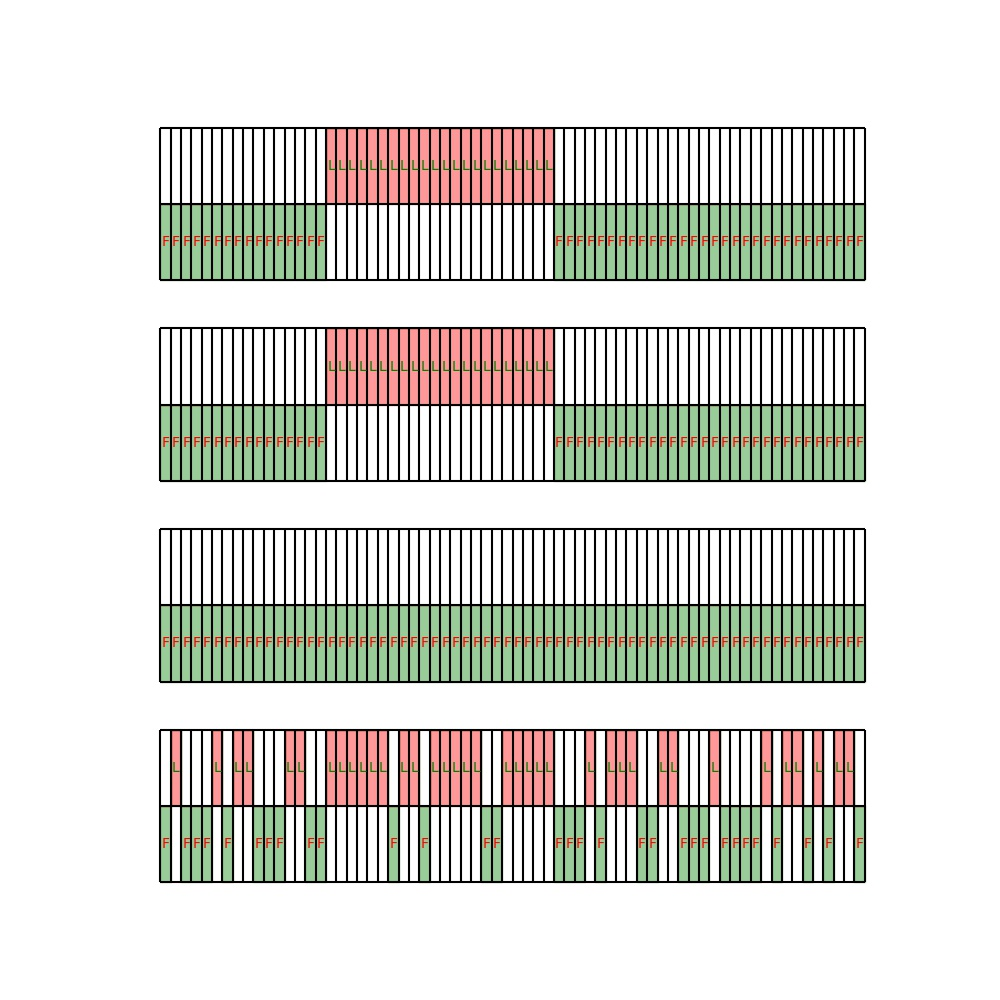
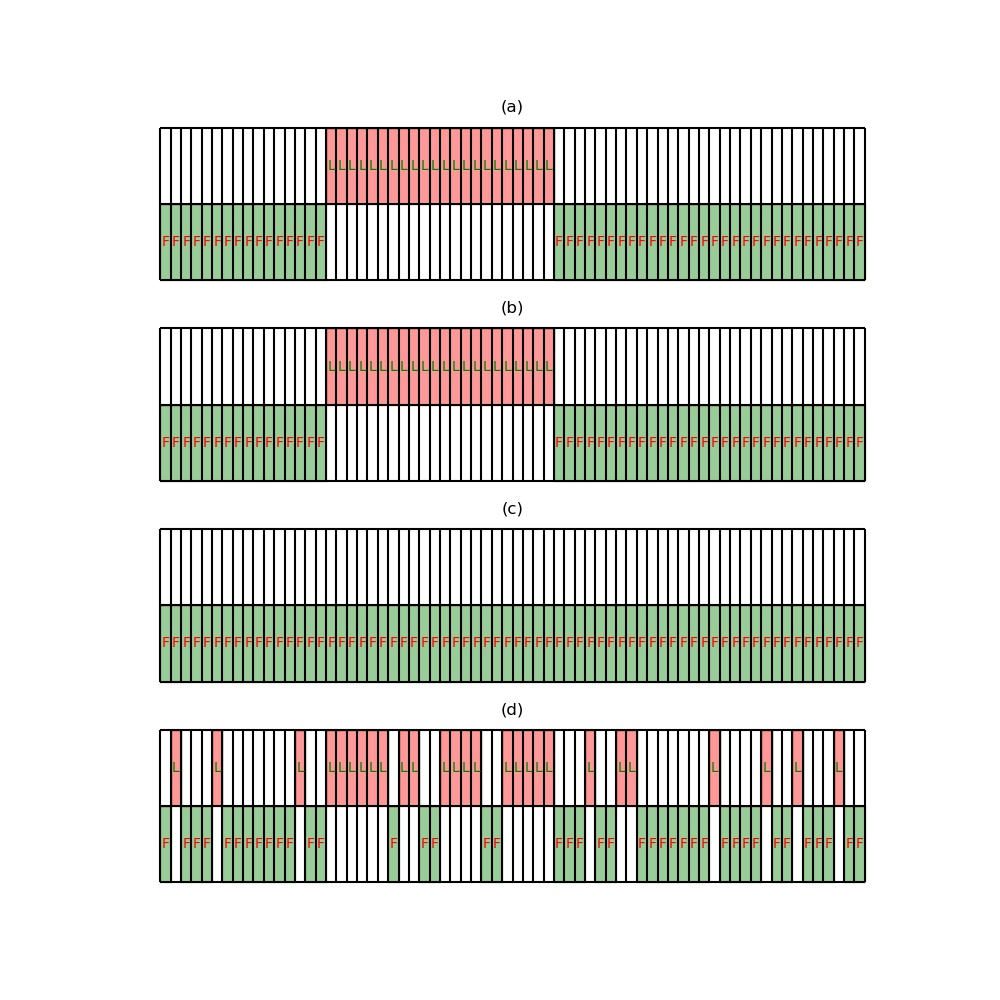
fix some typos

diff --git a/ass3/p4.py b/ass3/p4.py
@@ -34,12 +34,12 @@ class VA():
 
     def forward(self):
         for e in ems[2:]:
-            if self.ftrace[-1]*self.T['F->F'] >  self.ltrace[-1]*self.T['L->F']:
+            if self.ftrace[-1]*self.T['F->F'] >=  self.ltrace[-1]*self.T['L->F']:
                 self.fptrace.append('F')
             else:
                 self.fptrace.append('L')
 
-            if self.ftrace[-1]*self.T['F->L'] >  self.ltrace[-1]*self.T['L->L']:
+            if self.ftrace[-1]*self.T['F->L'] >=  self.ltrace[-1]*self.T['L->L']:
                 self.lptrace.append('F')
             else:
                 self.lptrace.append('L')
@@ -67,11 +67,13 @@ class VA():
         self.path = list(reversed(self.path))
 
 
-def path2plot(paths):
+def path2plot(paths, names=None):
     fig, axess = plt.subplots(nrows=len(paths), figsize=(10, 10))
     if len(paths) == 1:
         axess = [axess]
-    for path, axes in zip(paths, axess):
+    if names is None:
+        names = np.arange(len(paths))
+    for path, axes, name in zip(paths, axess, names):
         x = np.arange(len(path)) 
         y1 = np.zeros(len(path))
         patharr = np.array(path)
@@ -82,6 +84,7 @@ def path2plot(paths):
         y21[y1==1] = y21[y1==1] - 1 
         y22[y1==2] = y22[y1==2] - 1 
         #axes.axis('equal')
+        axes.set_title(f'({name})')
         axes.axis('off')
         for idx in x[:-1]:
             label = y1[idx]
@@ -107,8 +110,9 @@ paths = []
 for T in [T1, T2, T3, T4]:
     va = VA(tm=T)
     va()
+#    print(va.path)
     paths.append(va.path)
-path2plot(paths)
+path2plot(paths, ['a', 'b', 'c', 'd'])
 plt.show()
 plt.savefig(root/'p4.jpg')
     

diff --git a/ass3/p2.py b/ass3/p2.py
@@ -97,7 +97,6 @@ class EMk():
 
             
 if __name__ == '__main__':
-    # data, tmus, tsigmas, tpis = gen_mixd(k, 1000)
     with open('./ass3/files/q2.csv') as f:
         data = f.readlines()
     data = [float(i.strip()) for i in data]
@@ -110,6 +109,7 @@ if __name__ == '__main__':
         init3 = np.ones(k)/k
         em = EMk(k=k, data=data, inits=[init1, init2, init3])
         em(1e-5)
-        print(f'k={k:>3}', f'AIC: {em.AIC():>10.3f}', f'BIC: {em.BIC():>10.3f}')
+        #print(em.musk, em.sigmask, em.pisk)
+        print(f'k={k:>3}  AIC: {em.AIC():>10.3f} BIC: {em.BIC():>10.3f}')
 
 

diff --git a/ass3/p3.py b/ass3/p3.py
@@ -82,6 +82,7 @@ if __name__ == '__main__':
         em()
         parass.append(em.paras)
     parass = np.array(parass)
+    parass[:,2:] = parass[:, 2:]**2
     bias = parass.mean(axis=0) - truepara 
     stds = parass.std(axis=0)
     output = '{:<8.4g} ' * 4 

diff --git a/ass3/p1.py b/ass3/p1.py
@@ -22,6 +22,7 @@ def f(x):
 
 
 xx = np.linspace(-1, 5, 10000)
+plt.title('Integrand function')
 plt.plot(xx, f(xx))
 if not (root/'p1.jpg').is_file():
     plt.savefig(root/'p1.jpg')
